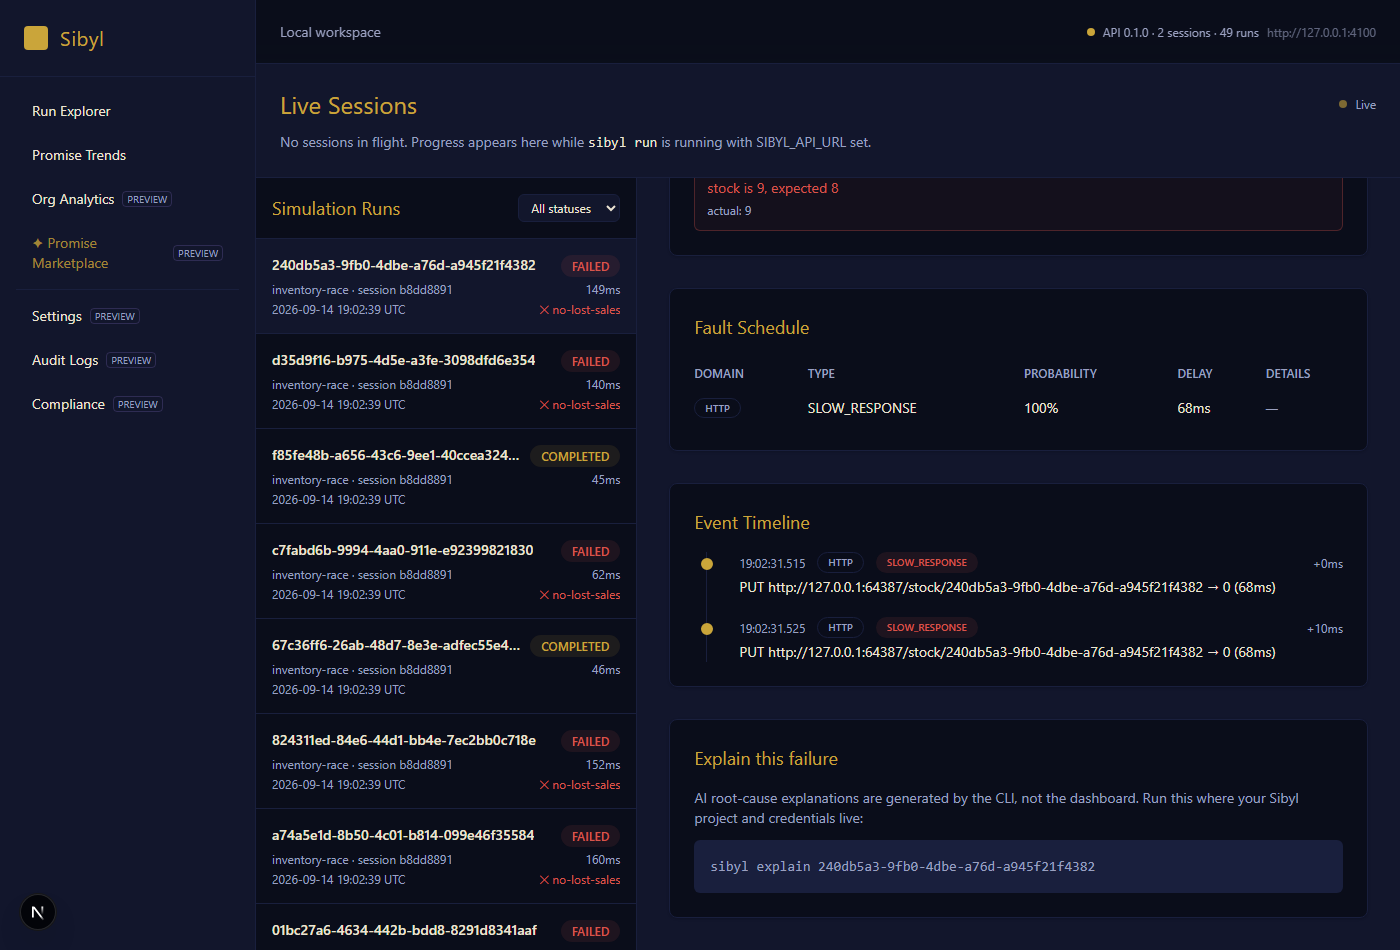
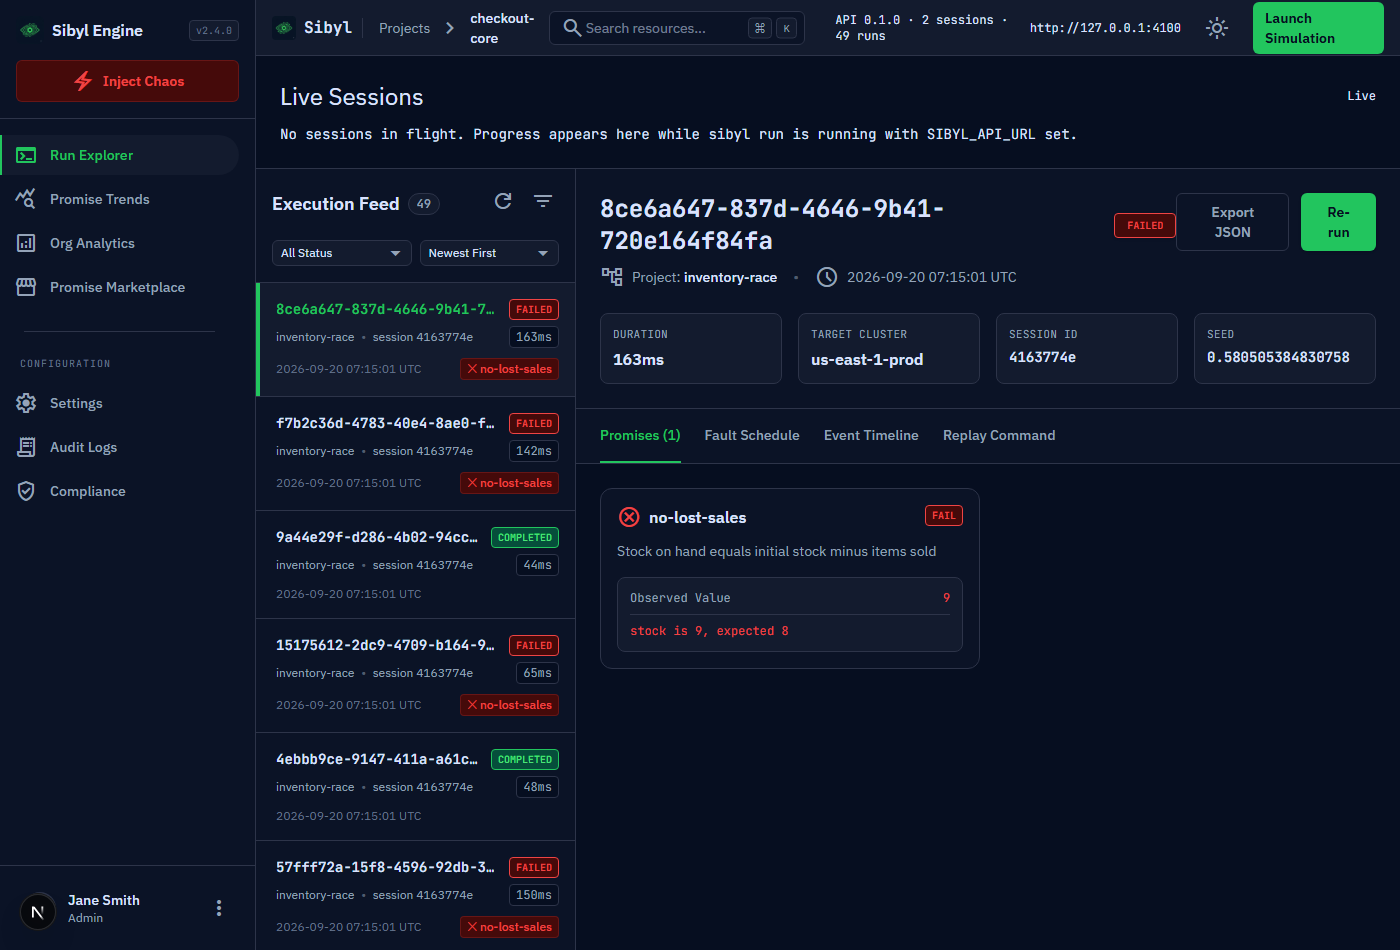
docs: update README screenshots to reflect new UI

diff --git a/README.md b/README.md
@@ -77,10 +77,10 @@ they cannot drift from what it renders:
 
 | | |
 |---|---|
-| ![Runs](docs/screenshots/runs.png) | ![Run detail](docs/screenshots/run-detail.png) |
-| **Run explorer.** Every run from the API with its status and the promise it broke; the selected run's seed, replay command and the promise's own message. The header shows the API it is connected to. | **Run detail.** The concrete fault schedule the strategy chose, the captured event timeline with the injected fault named on each event, and the command to explain it. |
-| ![Trends](docs/screenshots/trends.png) | |
-| **Promise trends.** Each promise's fail rate per session. Pages without a backend are tagged *Preview* in the sidebar. | |
+| ![Landing Page](docs/screenshots/landing.png) | ![Runs](docs/screenshots/runs.png) |
+| **Landing page.** Foresight for production systems. | **Run explorer.** Every run from the API with its status and the promise it broke; the selected run's seed, replay command and the promise's own message. |
+| ![Run detail](docs/screenshots/run-detail.png) | ![Trends](docs/screenshots/trends.png) |
+| **Run detail.** The concrete fault schedule the strategy chose, the captured event timeline with the injected fault named on each event. | **Promise trends.** Each promise's fail rate per session. |
 
 ---
 
